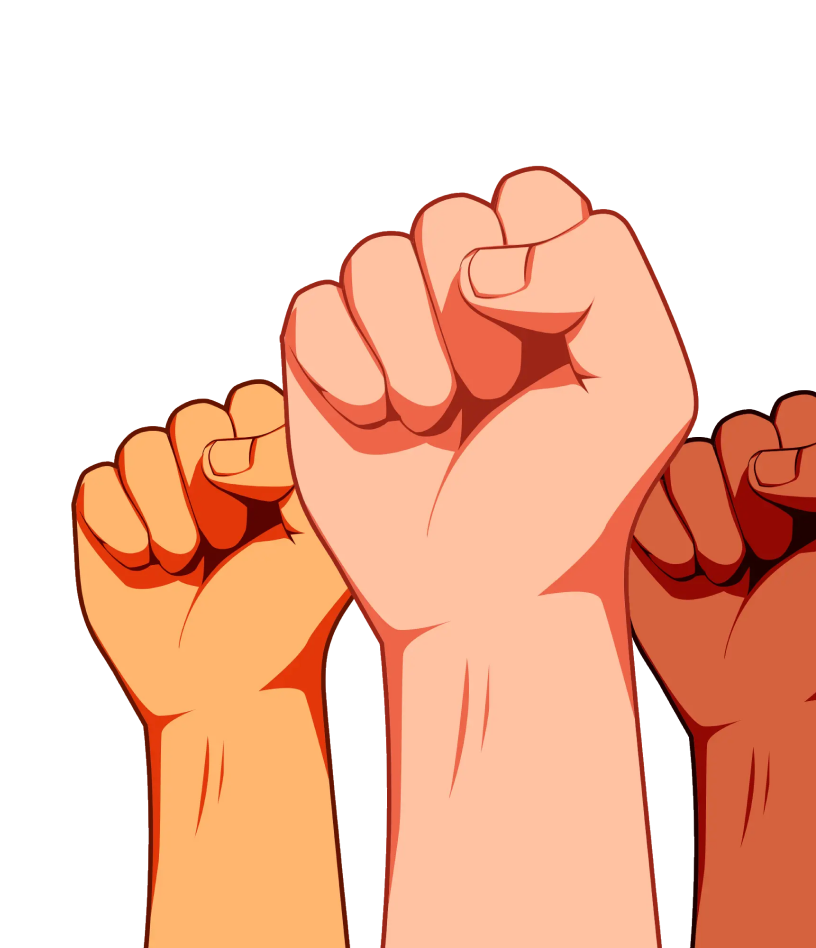
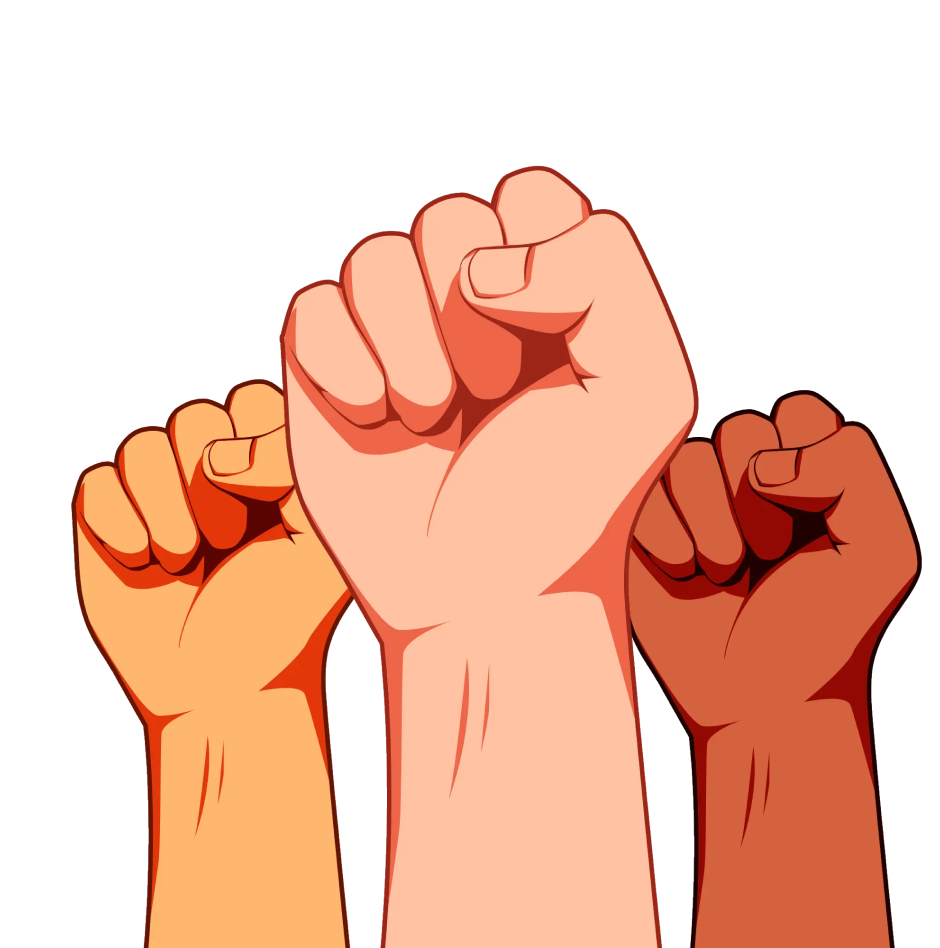
hola

diff --git a/index.html b/index.html
@@ -158,7 +158,7 @@
                 <button class="lutte=wrapper__see-more">Voir plus</button>
             </div>
             <div class="lutter-wrapper__right-section">
-                <img src="sources/medias/img_luttes.png" alt="Lutte image">
+                <img src="sources/medias/—Pngtree—three fists up raised high_9140570 1.png" alt="Lutte image">
             </div>
         </div>
     </section>
